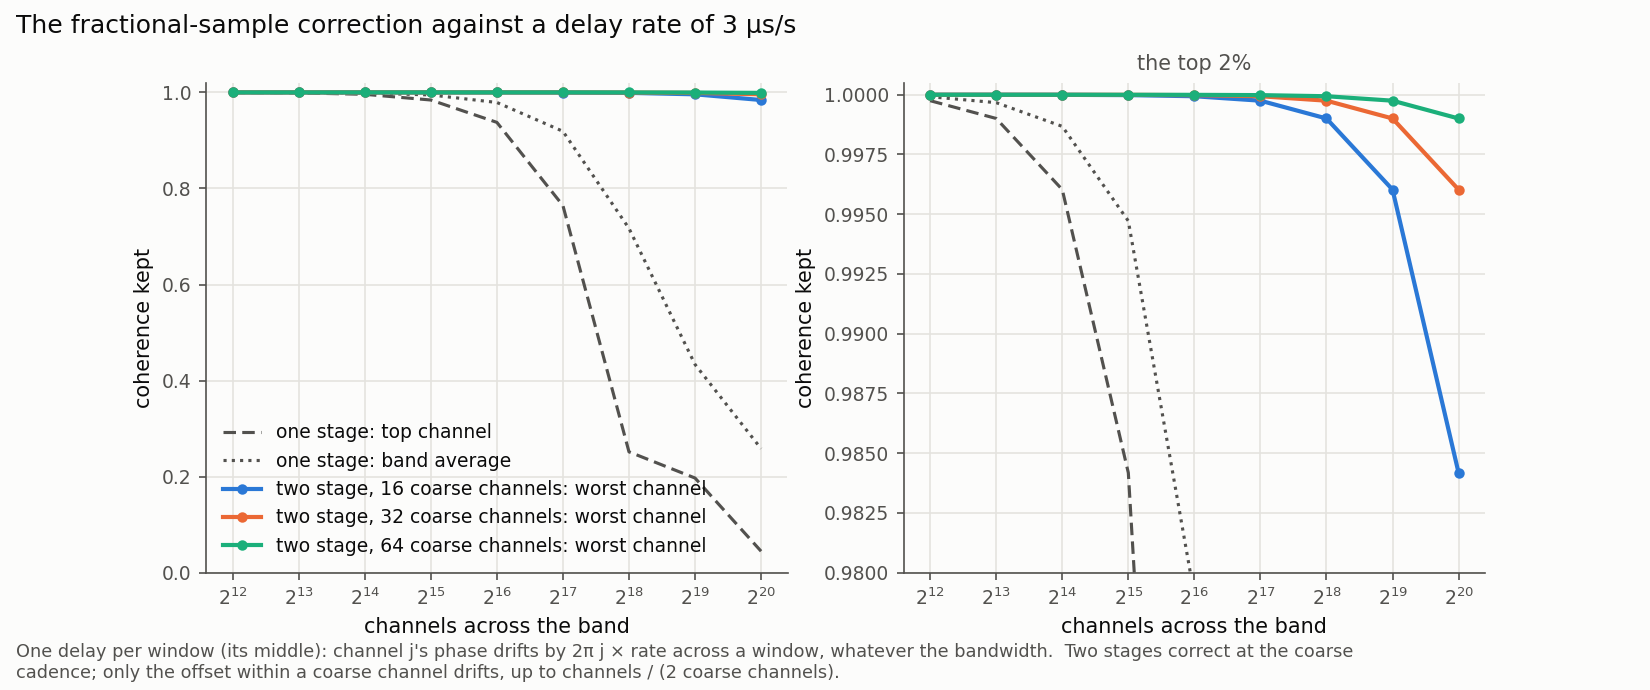
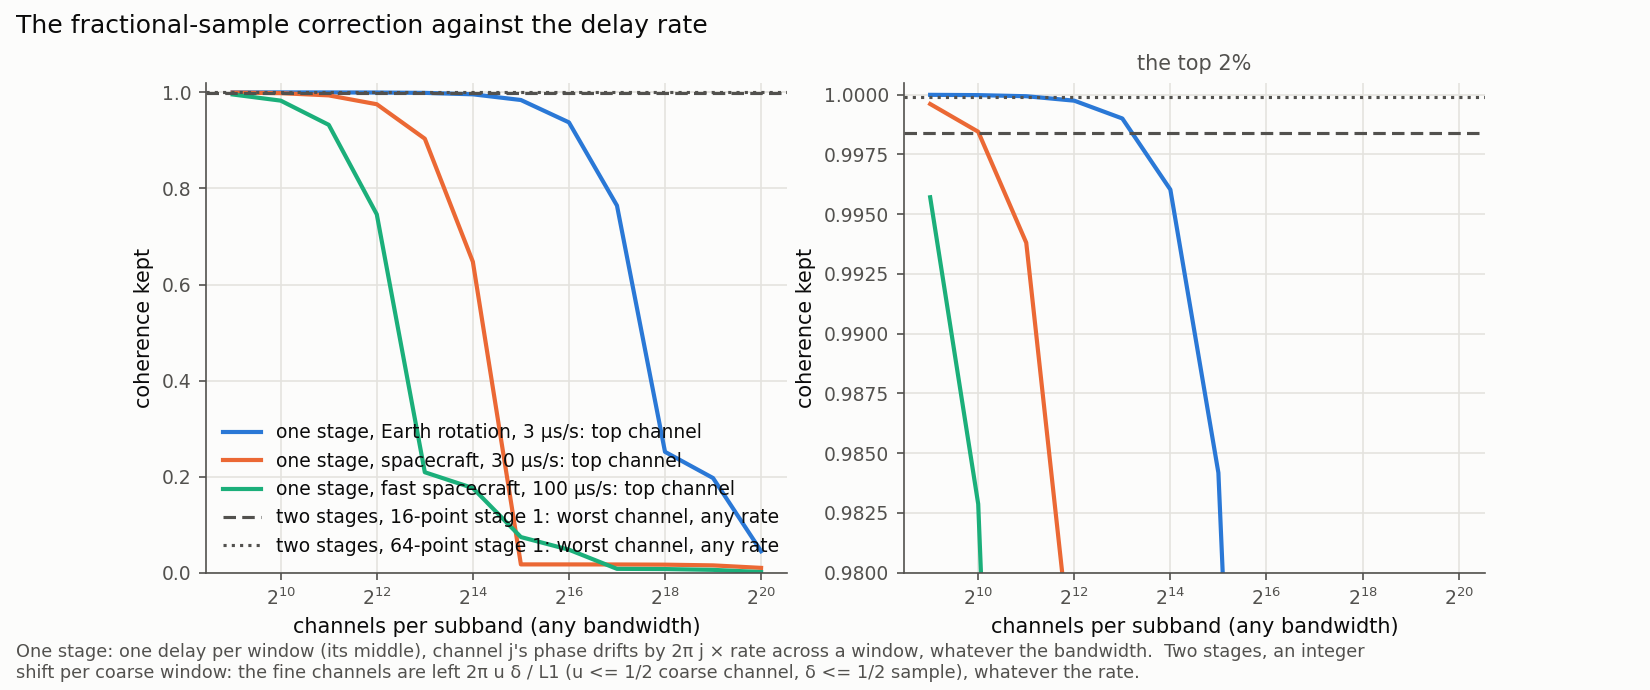
fft-fusion: two stages only where one cannot; PFB delay correctness and minimum size
The direction: one stage whenever possible; two stages with a moderate number of PFB coarse
channels where the resolution needs more channels per subband than one cuFFTDx FFT, or where the
delay rate makes one stage's fractional-sample correction lose (0.5% in the top channel at about
18k channels per subband at 3 us/s, 1.8k at 30 us/s, 550 at 100 us/s).

An integer shift per coarse window and the fractional part at each coarse centre leave fine
channel u the phase 2 pi u delta / L1, whatever the rate or channel count: a 16-point stage 1
loses under 0.2% in the worst channel.  A PFB does not affect the correction (linear,
time-invariant; checked by simulation to a few mrad); the coarse sample's time is the centre of
the whole PFB window.  The delay-rate plot and tables redone in channels per subband.

diff --git a/fft-fusion/two_stage.py b/fft-fusion/two_stage.py
@@ -254,19 +254,23 @@ def model(design, N2):
     return Design(design.name, design.h, design.L1, design.H, N2, K, w2=w2, hop2=hop2, short=design.short), M
 
 
-def delay_rate_coherence(nchan, rate, Nc=None):
-    """Coherence kept, against a delay rate (s/s), when the fractional-sample (baseband) delay
-    correction uses one delay per window (the window's middle), the windows nchan / B long: channel
-    j's phase drifts by 2 pi j x rate across a window (f T = j, whatever the bandwidth), which keeps
-    sinc(j x rate) of its amplitude.  Two stages (Nc coarse channels): the coarse stage corrects the
-    delay at each coarse sample (its residual is negligible), so only the offset within the coarse
-    channel drifts, |j - j_c| <= nchan / (2 Nc).  Returns (band top, band average)."""
-    j = np.arange(nchan)
-    if Nc:
-        K = nchan / Nc
-        j = (j + K / 2) % K - K / 2                    # offset from the coarse channel's centre
-    c = np.abs(np.sinc(j * rate))
-    return c[-1] if not Nc else c.min(), c.mean()
+def delay_rate_coherence(nchan, rate):
+    """One stage: coherence kept against a delay rate (s/s) when the fractional-sample (baseband)
+    delay correction uses one delay per window (its middle; fft-fusion and mpifxcorr), the windows
+    nchan / B long: channel j's phase drifts by 2 pi j x rate across a window (f T = j, whatever the
+    bandwidth), which keeps sinc(j x rate) of its amplitude.  Returns (top channel, band average)."""
+    c = np.abs(np.sinc(np.arange(nchan) * rate))
+    return c[-1], c.mean()
+
+
+def two_stage_fractional_loss(L1):
+    """Two stages, an integer-sample shift per coarse window and the fractional part corrected at each
+    coarse channel's centre: the fine channel u coarse channels from the centre (|u| <= 1/2) is left a
+    phase 2 pi u delta / L1, delta the fractional delay (|delta| <= 1/2 sample).  As delta sweeps a
+    sample it keeps sinc(u / L1): whatever the delay rate or the channel count.  Returns the loss of
+    (the worst channel, the average), L1 the stage-1 FFT's points (real data: L1 / 2 coarse channels)."""
+    u = np.linspace(-0.5, 0.5, 10001)
+    return 1 - np.sinc(0.5 / L1), float(np.mean(1 - np.sinc(u / L1)))
 
 
 def main():
@@ -289,13 +293,15 @@ def main():
         print(f"{d.name:58s} {d.O:5.3f} {s0:6.3f} {s1:6.3f} {s2:6.3f} {lk:8.3f} {m['gain_db'][0]:7.1f}dB {al:>21s} "
               f"{np.median(m['beyond5_db']):14.1f} dB {np.median(m['beyond20_db']):15.1f} dB", flush=True)
     print()
-    print("Coherence against a delay rate of 3e-6 s/s (an Earth-rotation maximum), one delay per window:")
-    print(f"{'channels':>9s} {'1 stage: top / mean':>21s} " + " ".join(f"{'2 stage, Nc ' + str(n) + ': worst / mean':>27s}" for n in (16, 32, 64)))
-    for nchan in (4096, 16384, 65536, 262144, 1048576):
-        one = delay_rate_coherence(nchan, 3e-6)
-        two = [delay_rate_coherence(nchan, 3e-6, n) for n in (16, 32, 64)]
-        print(f"{nchan:9d} {one[0]:10.4f} / {one[1]:.4f} " + " ".join(f"{t[0]:16.4f} / {t[1]:.4f}" for t in two))
-
+    print("One stage: coherence against the delay rate, top channel / band average:")
+    print(f"{'channels':>9s} " + " ".join(f"{'rate ' + r:>22s}" for r in ("3e-6", "3e-5", "1e-4")))
+    for nchan in (1024, 4096, 16384, 65536, 262144, 1048576):
+        print(f"{nchan:9d} " + " ".join(f"{a:12.4f} / {b:.4f}" for a, b in
+                                         (delay_rate_coherence(nchan, r) for r in (3e-6, 3e-5, 1e-4))))
+    print("Two stages (integer shift per coarse window): loss, worst fine channel / average, any rate:")
+    for L1 in (8, 16, 32, 64, 128):
+        w, a = two_stage_fractional_loss(L1)
+        print(f"  {L1:4d}-point stage 1: {w:.5f} / {a:.5f}")
 
 if __name__ == "__main__" and len(__import__("sys").argv) == 1:
     main()

diff --git a/fft-fusion/plot_two_stage.py b/fft-fusion/plot_two_stage.py
@@ -174,26 +174,26 @@ def sensitivity_png(path):
 
 def delayrate_png(path):
     fig, axes = plt.subplots(1, 2, figsize=(11, 4.6), facecolor=SURFACE)
-    n = 2 ** np.arange(12, 21)
-    one = np.array([T.delay_rate_coherence(int(x), 3e-6) for x in n])
+    n = 2 ** np.arange(9, 21)
     for ax, lim in ((axes[0], (0, 1.02)), (axes[1], (0.98, 1.0005))):
         style(ax)
-        ax.plot(n, one[:, 0], label="one stage: top channel", **REF)
-        ax.plot(n, one[:, 1], label="one stage: band average", color=INK2, linewidth=1.5, linestyle=":")
-        for i, Nc in enumerate((16, 32, 64)):
-            two = np.array([T.delay_rate_coherence(int(x), 3e-6, Nc) for x in n])
-            ax.plot(n, two[:, 0], color=SLOT[i], linewidth=2, marker="o", markersize=4,
-                    label=f"two stage, {Nc} coarse channels: worst channel")
+        for i, (r, lab) in enumerate(((3e-6, "Earth rotation, 3 \u00b5s/s"), (3e-5, "spacecraft, 30 \u00b5s/s"),
+                                      (1e-4, "fast spacecraft, 100 \u00b5s/s"))):
+            one = np.array([T.delay_rate_coherence(int(x), r) for x in n])
+            ax.plot(n, one[:, 0], color=SLOT[i], linewidth=2, label=f"one stage, {lab}: top channel")
+        for L1, st in ((16, (0, (4, 2))), (64, ":")):
+            ax.axhline(1 - T.two_stage_fractional_loss(L1)[0], color=INK2, linewidth=1.5, linestyle=st,
+                       label=f"two stages, {L1}-point stage 1: worst channel, any rate")
         ax.set_xscale("log", base=2)
         ax.set_ylim(*lim)
-        ax.set_xlabel("channels across the band", color=INK, fontsize=10)
+        ax.set_xlabel("channels per subband (any bandwidth)", color=INK, fontsize=10)
         ax.set_ylabel("coherence kept", color=INK, fontsize=10)
     axes[1].set_title("the top 2%", fontsize=10, color=INK2)
     legend(axes[0], loc="lower left")
-    finish(fig, path, "The fractional-sample correction against a delay rate of 3 \u00b5s/s", note=
-           "One delay per window (its middle): channel j's phase drifts by 2\u03c0 j \u00d7 rate across a window, "
-           "whatever the bandwidth.  Two stages correct at the coarse cadence; only the offset within a coarse "
-           "channel drifts, up to channels / (2 coarse channels).")
+    finish(fig, path, "The fractional-sample correction against the delay rate", note=
+           "One stage: one delay per window (its middle), channel j's phase drifts by 2\u03c0 j \u00d7 rate across a "
+           "window, whatever the bandwidth.  Two stages, an integer shift per coarse window: the fine channels are "
+           "left 2\u03c0 u \u03b4 / L1 (u <= 1/2 coarse channel, \u03b4 <= 1/2 sample), whatever the rate.")
 
 
 def offset_png(path):

diff --git a/fft-fusion/docs/two-stage.md b/fft-fusion/docs/two-stage.md
@@ -5,13 +5,29 @@ from `plot_two_stage.py` (`python3 two_stage.py`, `python3 plot_two_stage.py`, f
 
 ## In short
 
+- **When (the direction, 2026-11-20).**  One stage whenever possible.  Two stages, with a moderate
+  number of PFB coarse channels, only where one stage cannot do it:
+  - **The resolution needs more channels per subband than one cuFFTDx FFT gives.**  The fused
+    kernel is built up to 16384 points, so 8192 channels per real-sampled subband.  This is a
+    limit on channels per subband, not on the channel width: recording narrower subbands reaches
+    finer channels within it.
+  - **The delay rate makes the fractional-sample correction lose.**  One stage loses 0.5% in its
+    top channel at about 18k channels per subband at Earth-rotation rates (3 µs/s), so it is fine
+    up to the cuFFTDx limit.  But it loses that at 1.8k channels per subband at 30 µs/s and 550 at
+    100 µs/s (spacecraft VLBI).
+  - **The size of the PFB:** 16 points (8 coarse channels of real data) already keeps the
+    fractional-sample loss under 0.2% in the worst fine channel (Delay accuracy).  In practice the
+    stage-2 FFT sets the number: Nc of at least O × (channels per subband) / 16384.
+
 - **Why.** The fractional-sample correction uses one delay per FFT window (its middle), in
   fft-fusion and in mpifxcorr.
   Across a window channel j's phase then drifts by 2π j × (delay rate), whatever the bandwidth.
   At an Earth-rotation delay rate (3 µs/s) that costs 6% of the top channel's coherence at 65536
-  channels, and nearly all of it at 2^18 and beyond.  A coarse first stage lets the delay be
-  corrected at the coarse cadence, which leaves a drift up to 2 × (coarse channels) times smaller.
-  It also replaces one long FFT (the fused kernel stops at 16384 points) with short ones.
+  channels per subband, and nearly all of it at 2^18 and beyond; at spacecraft rates, from a few
+  thousand channels per subband.  A coarse first stage with an integer shift per coarse window
+  leaves only the fractional part within a coarse channel, under 0.2% loss with a 16-point PFB,
+  whatever the rate.  It also replaces one long FFT (the fused kernel stops at 16384 points) with
+  short ones.
 - **Should the first stage be WOLA and the second not?**  The second stage needs no overlap.  It
   runs on each coarse channel's continuous series, and back-to-back windows use every coarse sample
   once, so they lose no sensitivity.  A taper there only buys fine-channel leakage, the same trade
@@ -48,7 +64,7 @@ Real-sampled band of B MHz (2B samples/s); the final channel count nchan; Nc coa
 |---|---|---|
 | 1 (coarse kernel) | decode, integer delay shift, fringe rotation (per sample, as now); WOLA window (P = 1) or PFB weights on P × L1 samples, folded to L1 = 2 Nc; real FFT of L1 points; per coarse channel the oversampling derotation and the delay's phase at the channel's centre | coarse window: every H samples, O = L1 / H |
 | DRAM | the coarse series, FP16, `[ant][band][coarse channel][coarse sample]` | |
-| 2 (fine kernel) | N2-point FFT of N2 consecutive coarse samples; keep the central K = N2 / O bins; the residual delay phase per fine channel; scale | stage-2 window = the XMAC's window |
+| 2 (fine kernel) | N2-point FFT of N2 consecutive coarse samples; keep the central K = N2 / O bins; optionally the residual delay phase's window mean per fine channel; scale | stage-2 window = the XMAC's window |
 | DRAM | FP16 spectra in the staged XMAC's order (`halfIndex`), as the end-to-end kernel writes them now | |
 | XMAC | the staged XMAC, unchanged | |
 
@@ -60,12 +76,22 @@ Real-sampled band of B MHz (2B samples/s); the final channel count nchan; Nc coa
   and Nc both powers of two, K is one too, so O must be a power of two: O = 2 (or 1, which
   aliases).  O = 4/3 makes K, and so nchan, a multiple of 3 (3072, 12288, 49152, …); O = 8/7 a
   multiple of 7.
-- **Where the delay is corrected.**  One integer-sample shift per stage-2 window, as now.  Within
-  the window, the coarse stage multiplies coarse channel c's sample n by e^{−2πi f_c (τ(t_n) −
-  int)}: the delay's whole change during the window, exactly, at the channel's centre f_c.
-  Stage 2 applies the rest, 2π (f − f_c)(τ(t_mid) − int), per fine channel.  The only error left is
-  (f − f_c) times the delay's drift, and |f − f_c| is at most half a coarse channel.
-  The fringe rotation (the LO term) stays per sample, before stage 1.
+- **Where the delay is corrected.**
+  - **Stage 1:** an integer-sample shift per coarse window, and the fractional part δ at each coarse
+    channel's centre f_c.  Coarse channel c's sample n is multiplied by e^{−2πi f_c δ(t_n)}.
+  - **The residual:** fine channel u coarse channels from the centre (|u| ≤ ½) is left a phase
+    2π u δ / L1, with |δ| ≤ ½ sample.  It is bounded whatever the delay rate or the channel count
+    (Delay accuracy).
+  - **Stage 2 (optional):** can remove the residual's mean over each window, per fine channel.
+  - **The fringe rotation** (the LO term) stays per sample, before stage 1.
+- **A PFB does not affect the correction's correctness.**  It is a linear, time-invariant filter,
+  the same at every station, so a delay is a phase e^{−2πi f δ} after it as before it, and the
+  phase applied is exact at each channel's centre.
+  - **Checked by simulation:** a two-stage PFB on a delayed signal leaves exactly 2π u δ / L1
+    (to a few mrad) and full coherence for a static delay.
+  - **The one rule:** a coarse sample's time is the centre of the whole P × L1-sample PFB window,
+    its group delay, not the start of the window or of the L1-point fold.  That matters between
+    stations only if they use different PFBs.
 
 ## Is WOLA the right first stage?
 
@@ -265,24 +291,53 @@ stage 2 the PFB matches `--wola`.
 
 ## Delay accuracy
 
-![The fractional-sample correction against a delay rate](../plots/two-stage-delayrate.png)
+![The fractional-sample correction against the delay rate](../plots/two-stage-delayrate.png)
 
-| channels | one stage: top channel / band average | two stage, 16 / 32 / 64 coarse channels: worst channel |
-|---|---|---|
-| 4096 | 0.9998 / 0.9999 | 1.0000 / 1.0000 / 1.0000 |
-| 16384 | 0.9960 / 0.9987 | 1.0000 / 1.0000 / 1.0000 |
-| 65536 | 0.9376 / 0.9790 | 0.9999 / 1.0000 / 1.0000 |
-| 262144 | 0.2516 / 0.7169 | 0.9990 / 0.9998 / 0.9999 |
-| 1048576 | 0.0447 / 0.2583 | 0.9842 / 0.9960 / 0.9990 |
+**One stage.**  The fractional-sample correction uses one delay per window, its middle (fft-fusion
+and mpifxcorr).
+- **The drift:** channel j (frequency j B / nchan, window nchan / B long) drifts in phase by
+  2π j × (delay rate) across the window, and keeps sinc(j × rate) of its amplitude.
+- **Channels, not bandwidth:** the loss depends on the channel count per subband, not on the
+  bandwidth.
 
-How the model works:
-- **One stage.** The fractional-sample correction uses one delay per window, its middle.  Channel j
-  (frequency j B / nchan, window nchan / B long) drifts in phase by 2π j × (delay rate) across the
-  window, and keeps sinc(j × rate) of its amplitude.  That is independent of the bandwidth.
-- **Two stages.** The coarse stage's correction is exact at the coarse centres.  Only the offset
-  within a coarse channel drifts, at most nchan / (2 Nc) channels' worth.
-- **The rate.** 3 µs/s is about the largest a ground baseline sees from Earth rotation.  Spacecraft
-  or fast-moving targets see more.
+Coherence kept, top channel / band average:
+
+| channels per subband | 3 µs/s (Earth rotation) | 30 µs/s | 100 µs/s |
+|---|---|---|---|
+| 1024 | 1.0000 / 1.0000 | 0.9985 / 0.9995 | 0.9829 / 0.9943 |
+| 4096 | 0.9998 / 0.9999 | 0.9754 / 0.9918 | 0.7461 / 0.9125 |
+| 16384 | 0.9960 / 0.9987 | 0.6474 / 0.8766 | 0.1762 / 0.4238 |
+| 65536 | 0.9376 / 0.9790 | 0.0172 / 0.3699 | 0.0479 / 0.1477 |
+| 262144 | 0.2516 / 0.7169 | 0.0167 / 0.1280 | 0.0076 / 0.0476 |
+| 1048576 | 0.0447 / 0.2583 | 0.0100 / 0.0408 | 0.0013 / 0.0146 |
+
+The loss reaches 0.5% (top channel / band average) at these channel counts per subband:
+
+| delay rate | channels per subband |
+|---|---|
+| 3 µs/s | 18400 / 31900 |
+| 30 µs/s | 1840 / 3190 |
+| 100 µs/s | 550 / 960 |
+
+**Two stages.**  An integer shift per coarse window, and the fractional part corrected at each
+coarse channel's centre, leave fine channel u (|u| ≤ ½ coarse channel) a phase 2π u δ / L1, with
+|δ| ≤ ½ sample.  As δ sweeps a sample (the delay drifting), the channel keeps sinc(u / L1).  That
+holds whatever the delay rate or the channel count, so the PFB can be small:
+
+| stage-1 FFT points L1 (L1 / 2 coarse channels of real data) | loss, worst fine channel / average |
+|---|---|
+| 8 | 0.64% / 0.21% |
+| 16 | 0.16% / 0.05% |
+| 32 | 0.04% / 0.01% |
+| 64 | 0.01% / 0.003% |
+
+- **The bound holds:** a simulated two-stage PFB (16 taps, O = 4/3; L1 = 8, 16, 32) on a delayed
+  signal leaves exactly the predicted phase.
+- **Stage 2's optional correction** (the residual's mean per window and fine channel) reduces it
+  further when δ changes slowly.
+- **What sets the coarse channel count in practice** is the stage-2 FFT, N2 = O × (channels per
+  subband) / Nc, which must fit cuFFTDx (16384 as built here).  65536 channels per subband at
+  O = 4/3 need Nc ≥ 6 (so 8), and 2^20 need Nc ≥ 86 (so 128).
 
 ## Cost
 
@@ -318,8 +373,8 @@ Floating-point operations per input sample:
 2. **Stage-1 kernel** (`coarse_inst.cu`, one instantiation per L1 and P, cuFFTDx; P = 1 is a WOLA
    window, P > 1 a PFB, so both first stages are the same kernel with a different weight table).
    - **Block:** G consecutive coarse windows of one (antenna, band).
-   - **Input:** the packed data decoded once into shared memory with the lean decode, with one
-     integer shift per stage-2 window.
+   - **Input:** the packed data decoded once into shared memory with the lean decode, with an
+     integer shift per coarse window.
    - **Per sample:** fringe rotation (as now).
    - **Per coarse window:** the P-tap fold to L1 samples, then a real FFT of L1 points.
    - **Per coarse channel:** derotation × delay phase at the channel's centre, then a scale.
@@ -330,7 +385,7 @@ Floating-point operations per input sample:
 3. **Stage-2 kernel.**
    - **Per (antenna, band, coarse channel, stage-2 window):** an N2-point complex FFT (cuFFTDx,
      batched in the block), keeping K bins.
-   - **Per fine channel:** the residual delay phase.
+   - **Per fine channel (optional):** the window mean of the residual delay phase.
    - **Correction:** none is needed.  The PFB's passband ripple is under 0.001 dB at 16 taps
      (O = 4/3) and 0.011 dB at 4 taps (O = 2); only the 8-tap O = 4/3 design reaches 0.09 dB.
    - **Output:** FP16 into the staged XMAC's layout, unchanged downstream; a stage-2 window's data
@@ -356,7 +411,10 @@ Answered (2026-11-20):
   gives exactly that grid.
 - **mpifxcorr also corrects the fractional sample once per FFT window,** so the delay-rate
   analysis applies to it as to fft-fusion.
-- **Two stages are an option, not the one path:** selectable, for about 2k-4k channels and up.
+- **Two stages are an option, not the one path.**  One stage whenever possible.  Two stages, with
+  a moderate number of PFB coarse channels, when the resolution needs more channels per subband
+  than one cuFFTDx FFT gives, or when the delay rate makes one stage's fractional-sample
+  correction lose (spacecraft VLBI); see In short.
 
 - **DiFX can use channel counts that are not powers of two,** so any oversampling will do
   (O = 8/7: multiples of 7; O = 4/3: multiples of 3).
